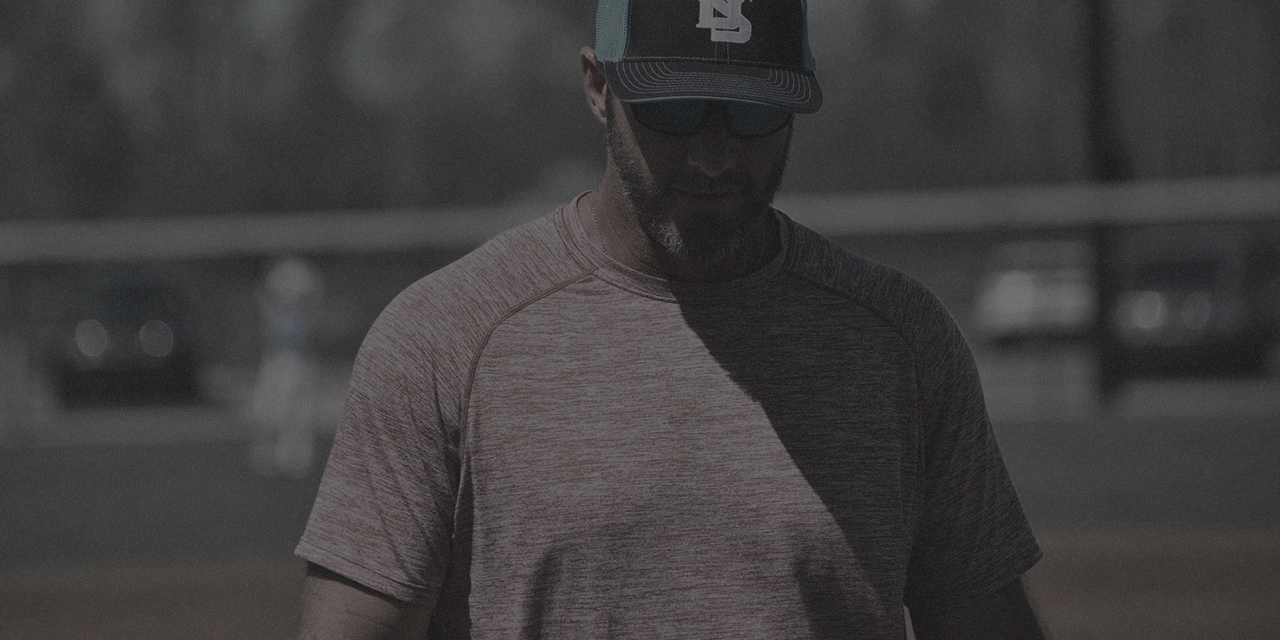
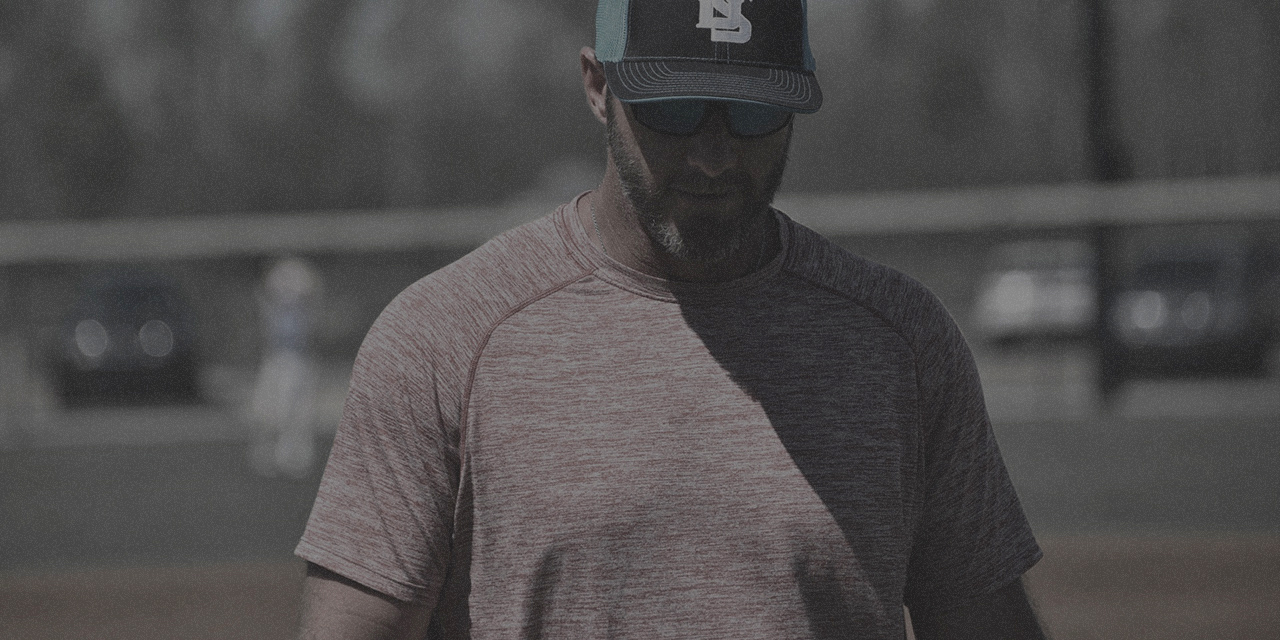
brighten images

diff --git a/index.html b/index.html
@@ -32,7 +32,7 @@
 	<div class="login-group">
 		<div class="container">
 			<ul>
-				<li class="phone-number"><span>601-427-9981</span></li>
+				<li class="phone-number"><span><i class="fa fa-phone"></i> &nbsp; 601-427-9981</span></li>
 				<li><a href="">Login</a></li>
 				<li><a href="">Register</a></li>
 			</ul>

diff --git a/sass/_globals.scss b/sass/_globals.scss
@@ -258,7 +258,7 @@ nav{
         width:240px;
         height:100%;
         overflow:scroll;
-        background:rgba(30,30,30,1);
+        background:#202020;
         padding-top:160px;
         @include transform(translateX(-240px));
         @include transition(transform 0.6s $easeOutExpo);

diff --git a/css/main.css b/css/main.css
@@ -301,7 +301,7 @@ nav ul {
   width: 240px;
   height: 100%;
   overflow: scroll;
-  background: #1e1e1e;
+  background: #202020;
   padding-top: 160px;
   -moz-transform: translateX(-240px);
   -o-transform: translateX(-240px);
